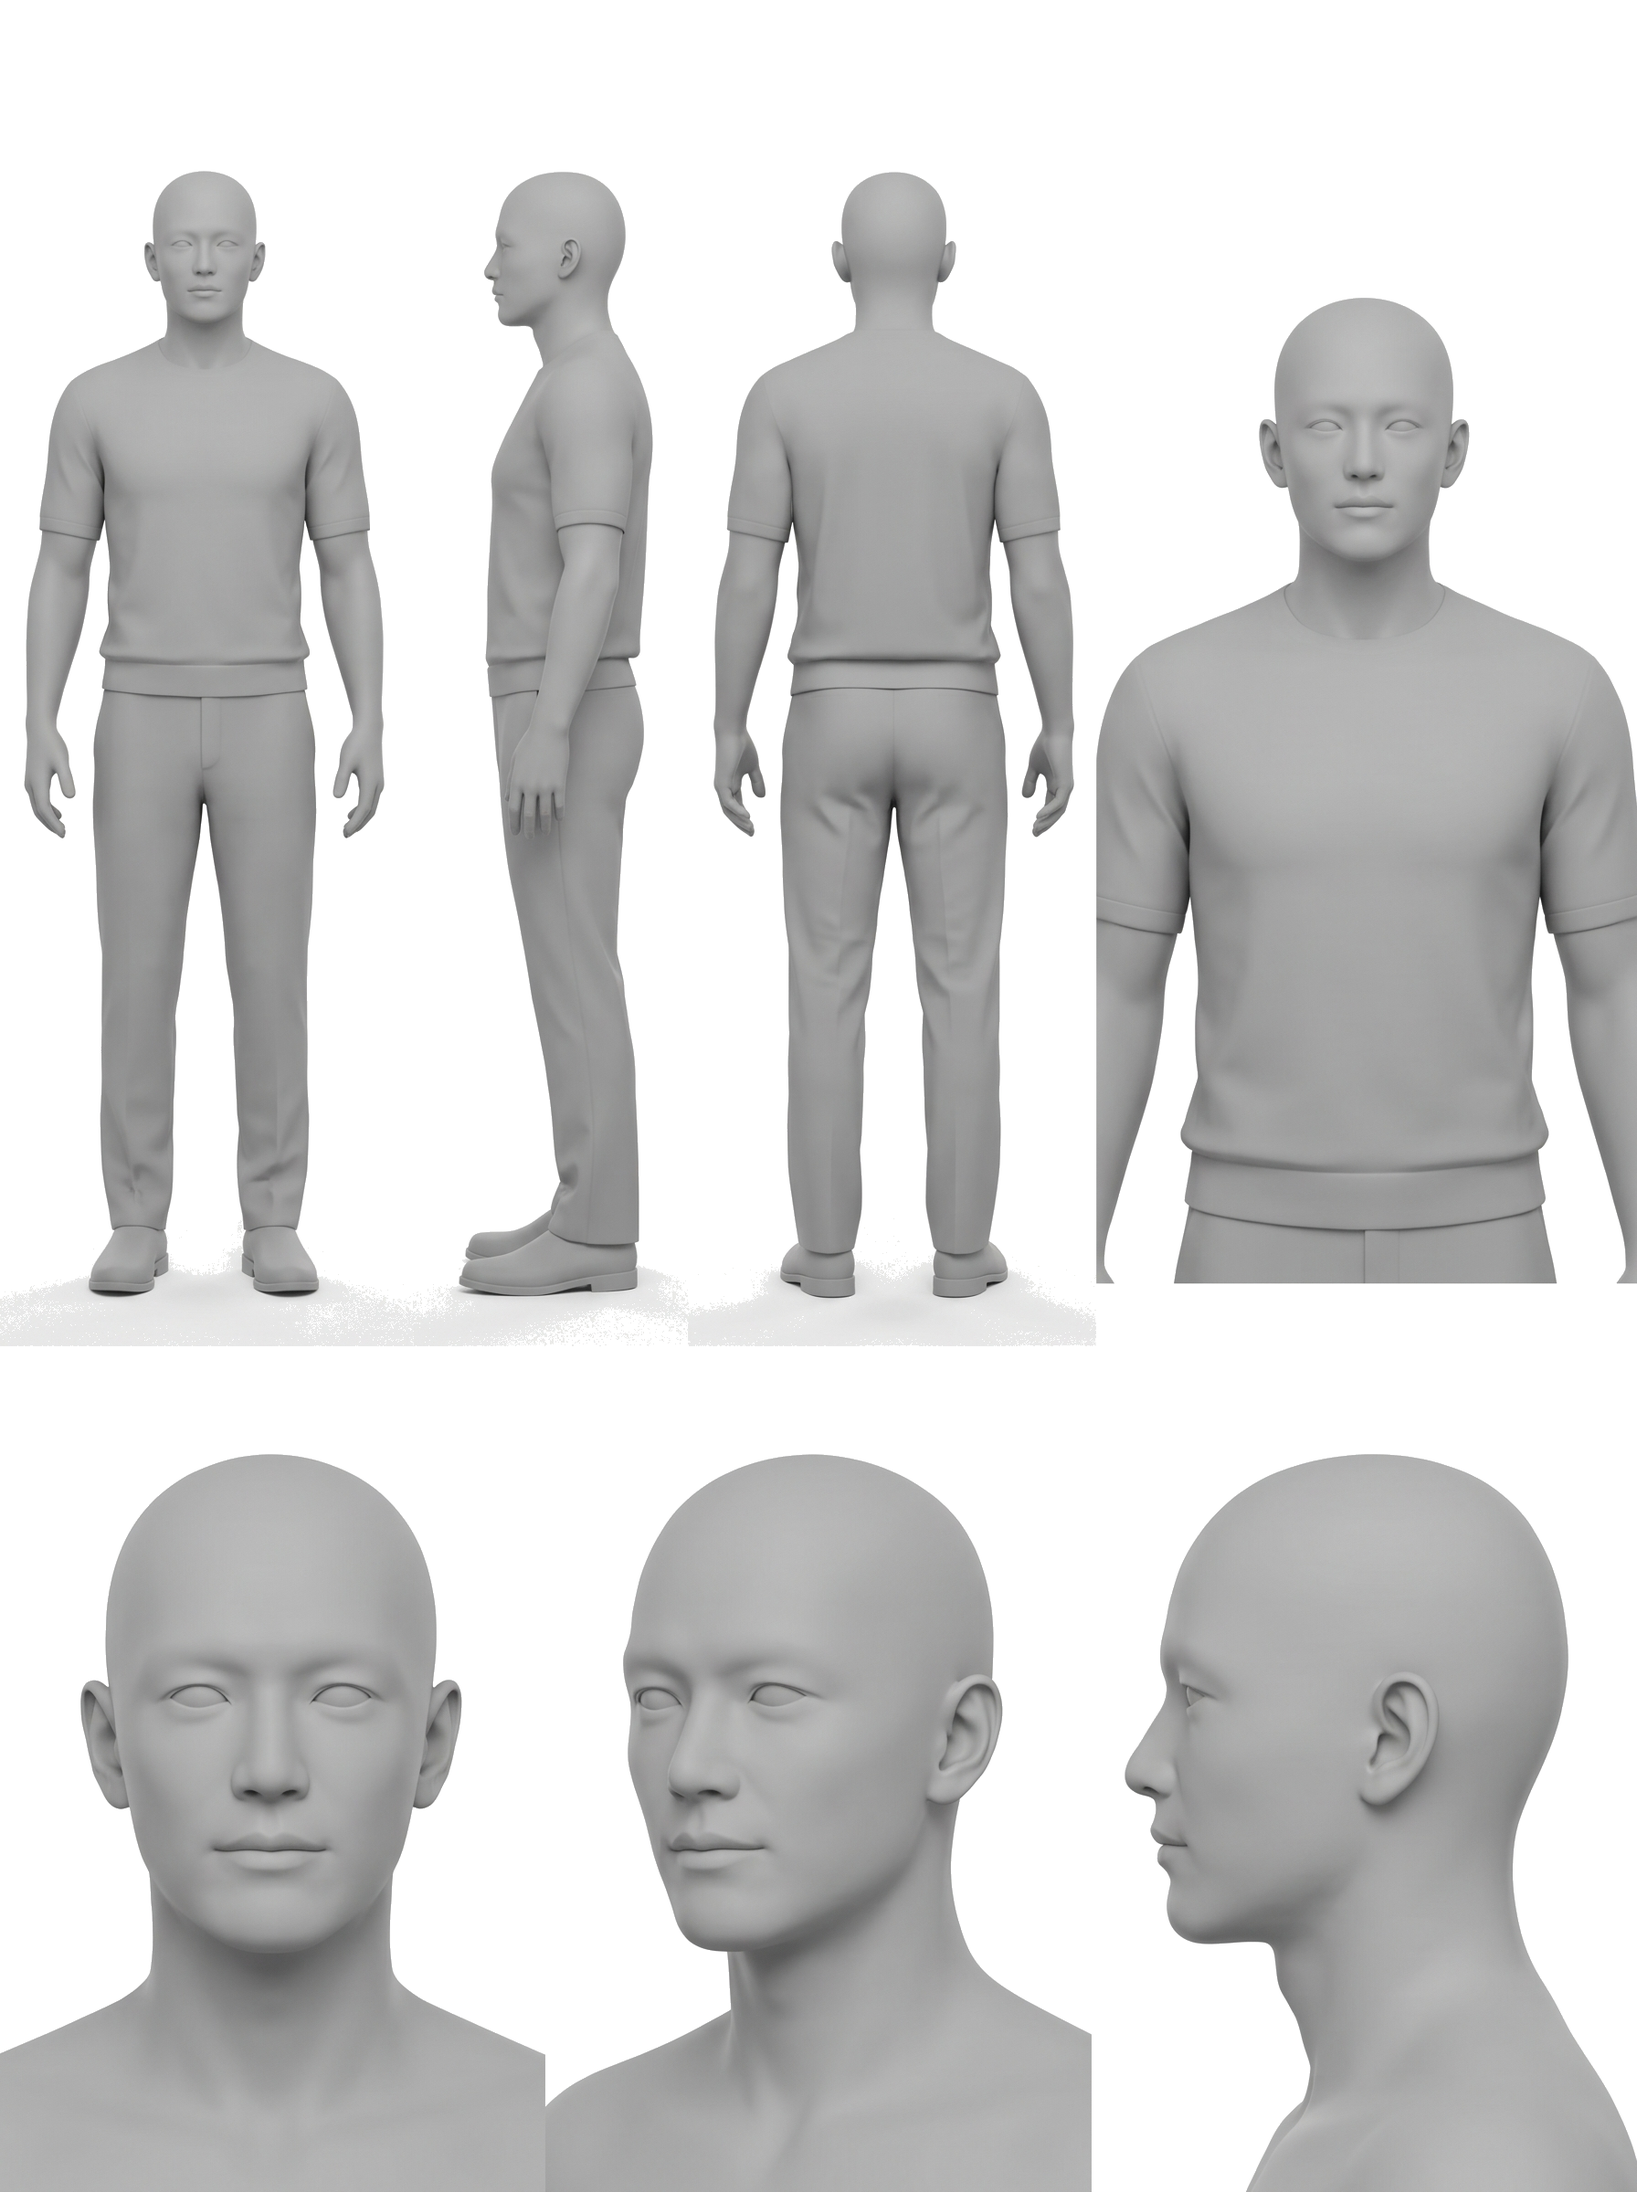
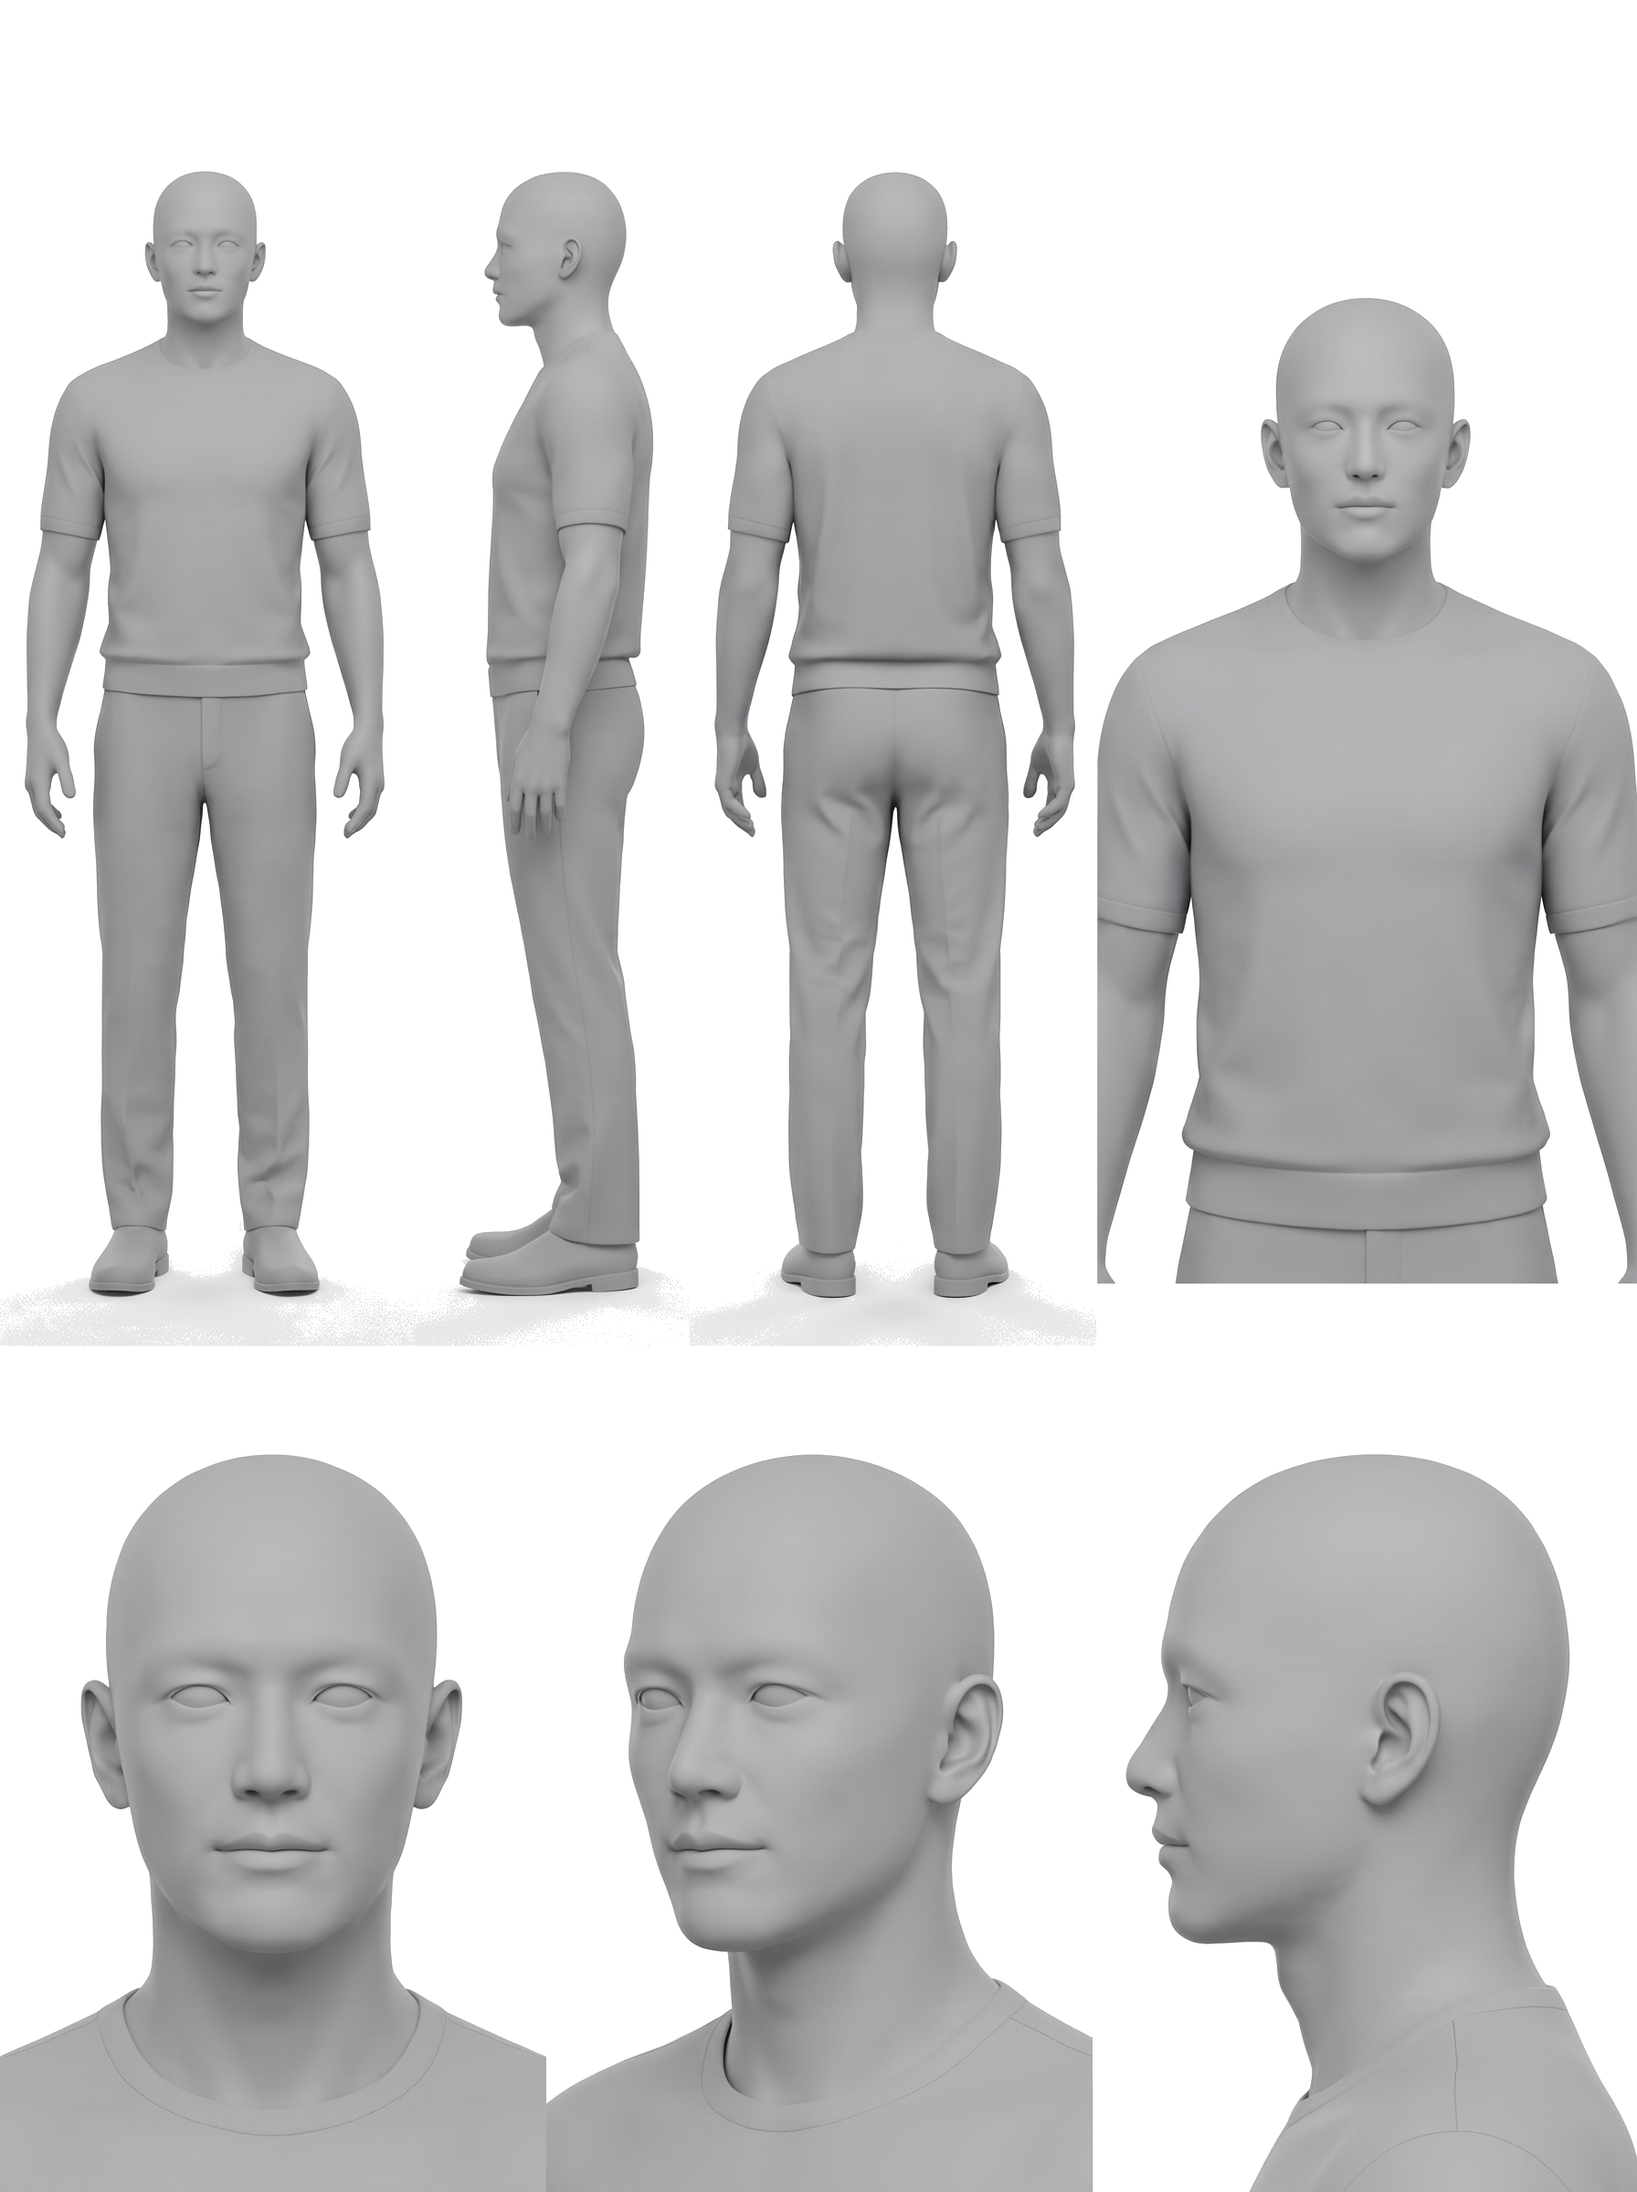
fix(image-skill): 角色卡基准图改为无身份灰模成品，记录逐格照抄风险与第4格正面强调

Changed region(s): [[0.9375, 0.9062, 0.9688, 0.9375], [0.625, 0.3438, 0.6562, 0.375]]

diff --git a/refs/image-skill-library/character-card-template/references/layout-spec.md b/refs/image-skill-library/character-card-template/references/layout-spec.md
@@ -6,7 +6,7 @@
 
 ## 0. 首选手段：注入版式基准图（必须做）
 
-实测结论：同一份纯文字提示词，排间空隙会在 4%–20% 之间随机波动；一旦把 `assets/layout-reference.png` 作为**第一张参考图**传进去，排间空隙稳定落在 5–7%、上排高度稳定在 47–54%，四格宽度也自动变成不等宽。模型对"照图排版"的服从度，远高于对百分比数字的服从度。
+实测结论：同一份纯文字提示词，排间空隙会在 4%–20% 之间随机波动；一旦把 `assets/layout-reference.png` 作为**第一张参考图**传进去，排间空隙稳定落在 4–7%、上排高度稳定在 47–54%，四格宽度也不再等宽。模型对"照图排版"的服从度，远高于对百分比数字的服从度。
 
 每次出卡的标准参考图顺序：
 
@@ -15,7 +15,20 @@
 
 提示词开头必须写"参考图分工"，明确第 1 张只提供版面结构、不提供人物与服装（模板见 `examples.md`）。
 
-基准图本身的实测比例：上排 53.6%、排间空隙 4.9%、下排 33.7%、四格宽度比 1 / 0.6 / 1 / 1.6——与目标一致，可以放心当基准。
+### 基准图会被逐格照抄——它必须本身就是"无人身份的成品"
+
+这是踩过的坑：基准图下排三张是裸肩的，成品下排就裸肩；基准图第 4 格裁到大腿，成品就裁到大腿。**基准图里每一处细节都会被复制到成品**，所以基准图必须是"成品的样子，只是没有身份"：
+
+- 下排三张头肩**必须穿着上衣**（有圆领与肩线），否则成品裸肩；
+- 第 4 格**必须裁在腰线**，否则成品裁到大腿；
+- 四格底边必须齐平，否则成品也对不齐；
+- 灰模可以、无五官可以，但**姿势、服装轮廓、裁切位置必须正确**。
+
+基准图本身的实测比例：上排 53.6%、排间空隙 4.9%、下排 33.7%、四格宽度比 1 / 0.6 / 1 / 1.6——与目标一致。
+
+### 基准图不能带真人
+
+不要拿真人角色卡当版式基准：实测会串味（把基准图人物的眉眼、发型带进成品）。灰模基准就是为了消除这个变量——它可以被照抄，但抄过去的是"没有脸的人"，模型必须从人物照片里拿脸。
 
 ## 1. 画幅
 

diff --git a/refs/image-skill-library/character-card-template/references/examples.md b/refs/image-skill-library/character-card-template/references/examples.md
@@ -25,6 +25,9 @@
 第 3 格：背面全身，宽约占 19.5%，只见后脑、后背与脚跟，脚底贴齐公共底边。
 第 4 格（最右）：同一个人的**正面上半身近景**，宽约占 33%（是第 1 格的 1.6 倍，格子要明显比前三个宽）；正对镜头、头正颈直、双肩水平、双耳对称；头部宽度约为第 1 格的 1.5 倍；只拍到**腰线**——上衣下摆与裤腰之间那一段，画面在腰线处横切，这条腰线截断处就是第 4 格的下边缘、与前三格脚底齐平；因为放大拍摄，头顶比前三格低约 5%；双臂垂直贴身、完整落在格内，距左右边缘留白，不被切断。
 
+【第 4 格硬强调（单独一段写，不要并进四格那段）】
+第 4 格必须是完全正面：脸正对镜头、两眼对称看向镜头、鼻尖指向前方、两耳同时可见、双肩水平左右对称——不是四分之三侧、不是斜侧、不能露出侧脸轮廓。很多失败案例都是这一格跑成了四分之三，所以这一段要单独成段、并且是提示词里对第 4 格的最后一次表述。
+
 【排版 — 下排三格头肩特写】
 画面下半部分横排三个头肩特写，每张约占画面宽三分之一：左为正脸（正对镜头、双耳对称），中为四分之三侧脸（转向画面右约 45°），右为九十度正侧脸（完全朝画面右）。三张头部大小完全一致、头顶同一水平线、下缘统一裁到锁骨下缘，头部高约占画面高 34%，撑满整条下排。
 
